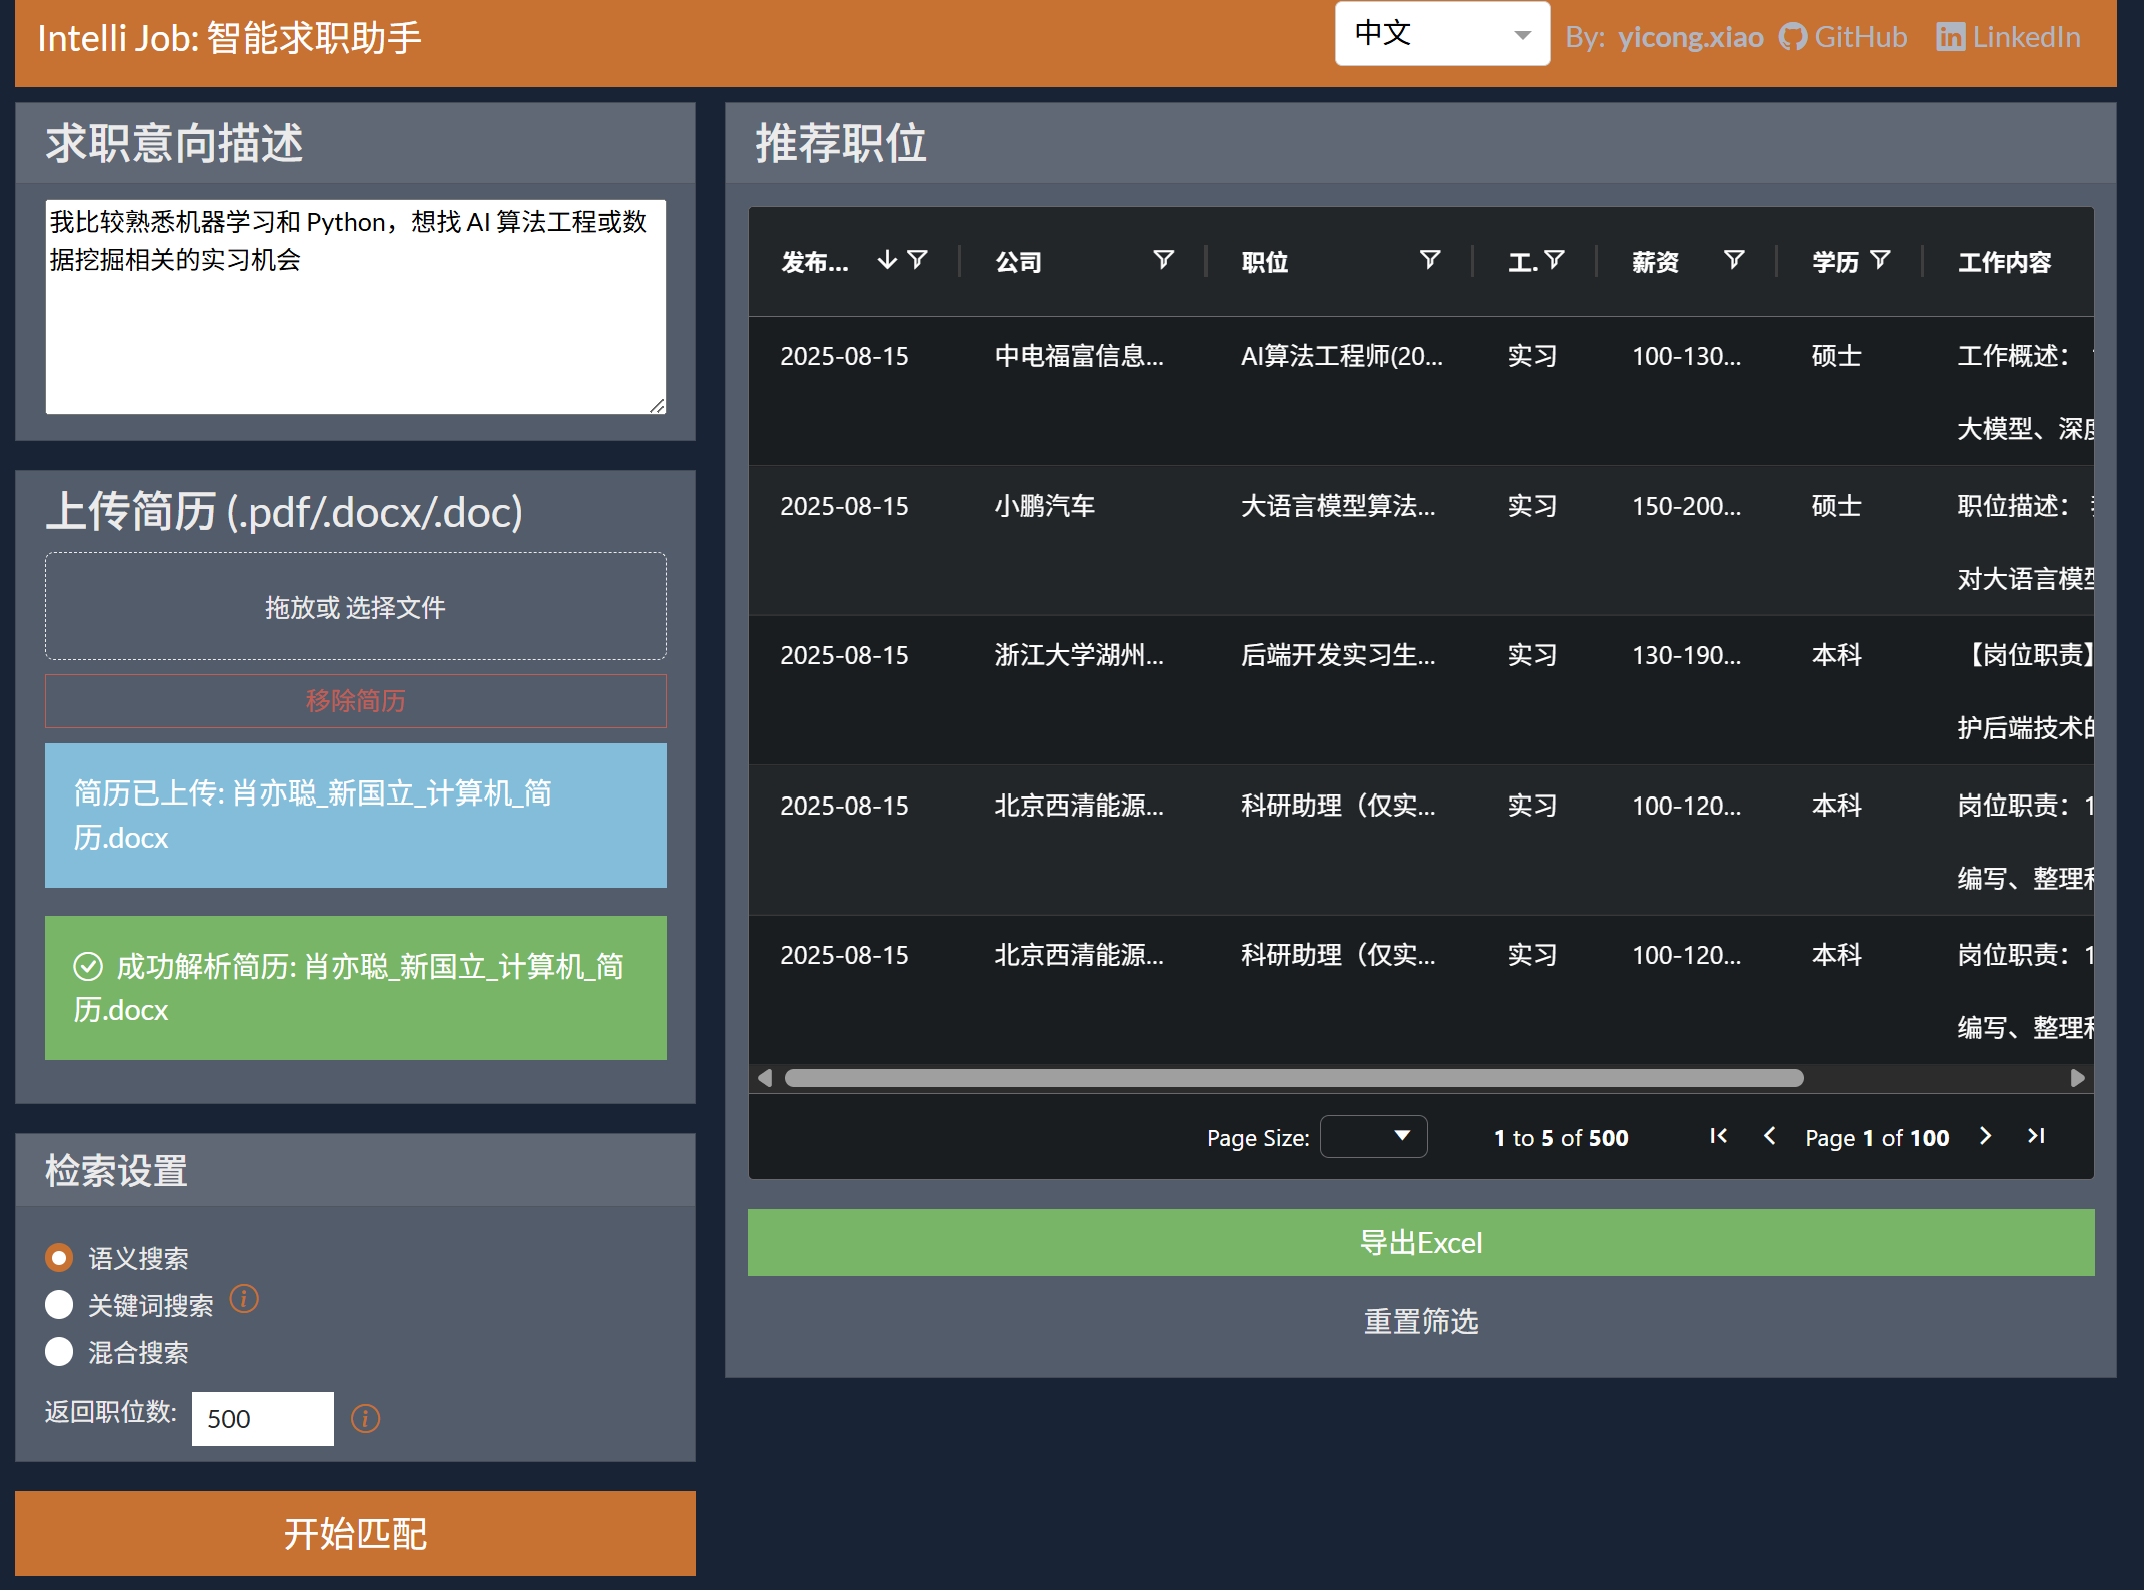
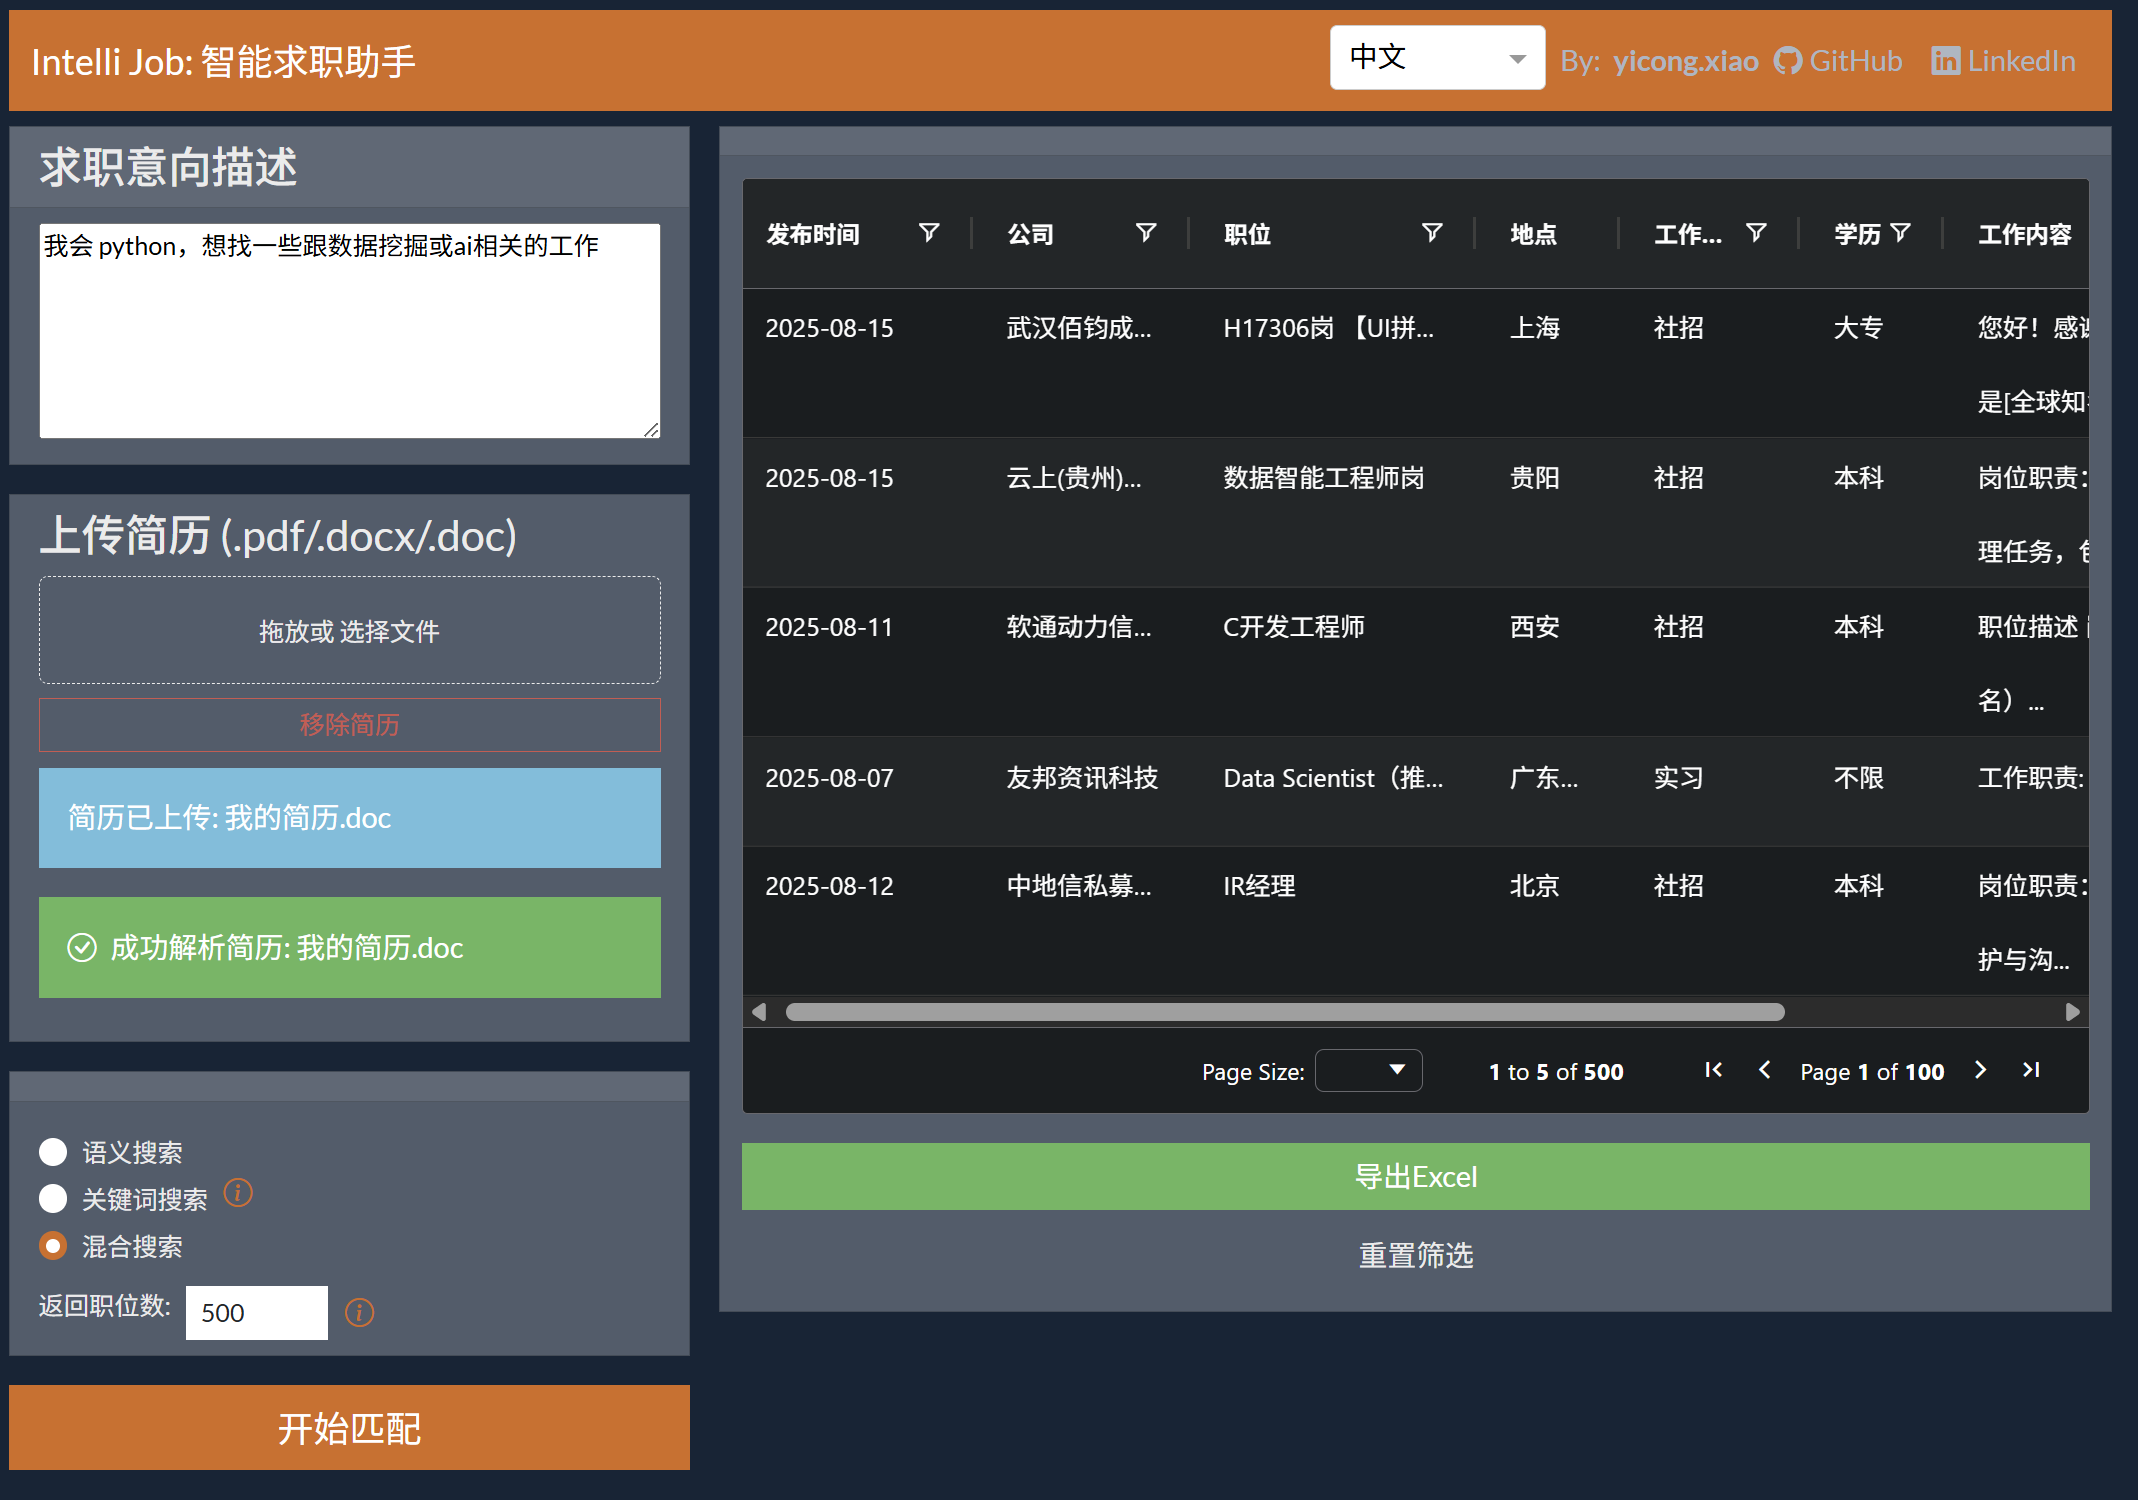
commit

diff --git a/main.py b/main.py
@@ -353,6 +353,11 @@ app.layout = dbc.Container(
                                             }
                                         ),
                                         description_modal,
+                                        dbc.Label(
+                                                    TRANSLATIONS['zh']['toggle_job_description_hint'],
+                                                    id = "toggle-job-description-hint", 
+                                                    className="me-2",
+                                                ),
                                         dbc.ButtonGroup(
                                             [
                                                 dbc.Button(
@@ -581,7 +586,8 @@ def analyze_and_match(
      Output('recommended-jobs-table-title', 'children'),
      Output('job-results-grid', 'columnDefs'),
      Output('job-results-grid', 'rowData', allow_duplicate=True),
-     Output("job-description-title", "children")
+     Output("job-description-title", "children"),
+     Output('toggle-job-description-hint', 'children')
      ],
     Input('language-selector', 'value'),
     [   
@@ -618,6 +624,7 @@ def on_switch_language(selected_lang, raw_row_data):
             - Job table column names
         - Full job description panel(modal):
             - "job-description-title"
+            - "toggle-job-description-hint"
 
     """
     display_dict = TRANSLATIONS[selected_lang]
@@ -642,7 +649,8 @@ def on_switch_language(selected_lang, raw_row_data):
         display_dict['recommended_jobs_table_title'],
         display_dict['columnDefs'],
         format_multiple_row_raw_data(raw_row_data, selected_lang),
-        display_dict['job_description_title']
+        display_dict['job_description_title'],
+        display_dict['toggle_job_description_hint'],
     )
 
 # download excel
@@ -832,4 +840,4 @@ if __name__ == "__main__":
     debug = os.environ.get("DEBUG", "False") == "True"
     host = os.environ.get("HOST", "127.0.0.1")
     #app.run(host=host, port=int(os.environ.get("PORT", 5002)), debug=True)
-    app.run(host=host, port=5002, debug=False)
+    app.run(host=host, port=5002, debug=True)

diff --git a/app/static/frontend_utils.py b/app/static/frontend_utils.py
@@ -1,6 +1,6 @@
 from datetime import datetime
 
-from dash import html
+from dash import html, dcc
 import dash_bootstrap_components as dbc
 
 
@@ -217,6 +217,8 @@ TRANSLATIONS = {
         'parse_error': "Failed to parse resume: {resume_filename}",
         'query_error': "Failed to analyze job preferences",
         'match_error': "Job matching failed",
+
+        'toggle_job_description_hint': dcc.Markdown("**Double click on `Description` to view the whole content**"),
         
         
         # Recruitment types 
@@ -293,6 +295,8 @@ TRANSLATIONS = {
         'parse_error': "简历解析失败: {resume_filename} ",
         'query_error': "求职意向分析失败",
         'match_error': "职位匹配失败",
+
+        'toggle_job_description_hint': dcc.Markdown("**双击 `工作内容` 以查看全部内容**"),
         
         # Recruitment types 
         'recruitment_type': {
